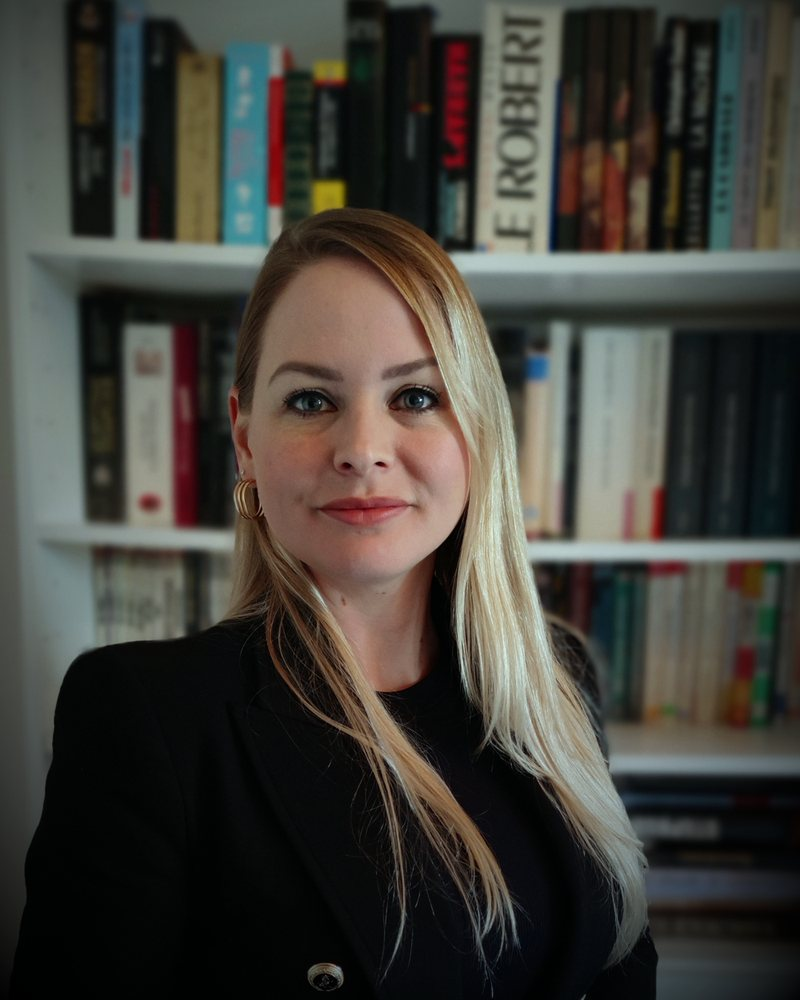
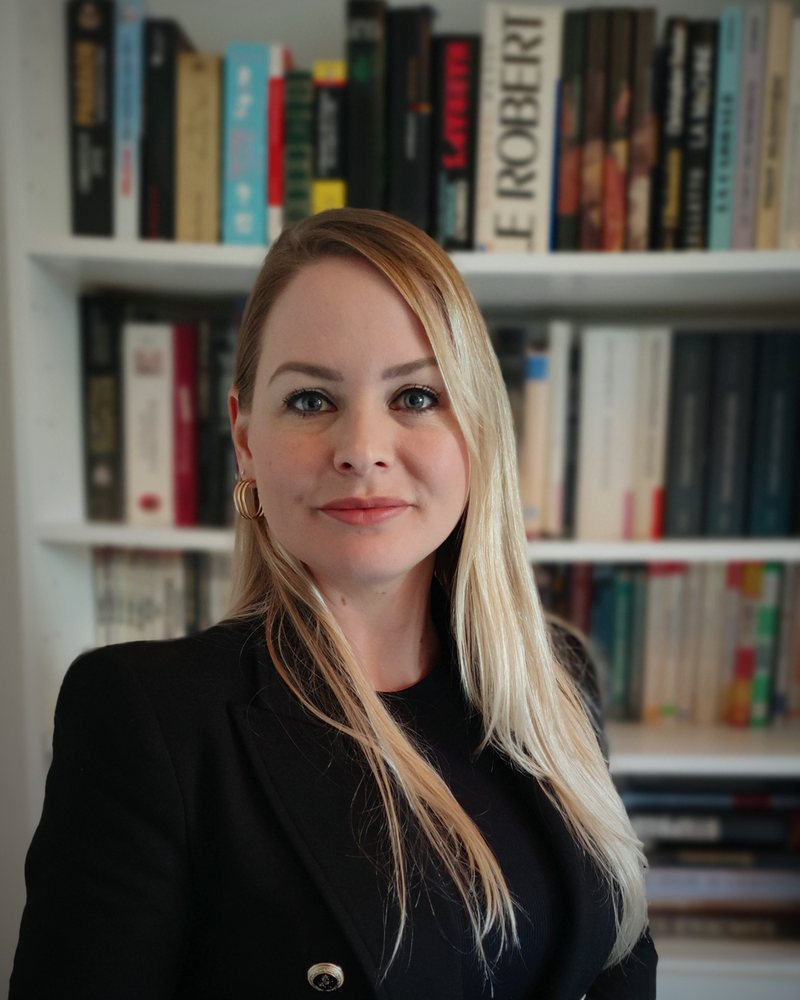
História comercial com fotos de época, fotos dos fundadores ajustadas, rodapé com endereço, WhatsApp e mapa
Claude-Session: https://claude.ai/code/session_01AkVhuXE8EgF92m4Cupjp9G

diff --git a/historia/index.html b/historia/index.html
@@ -4,34 +4,38 @@
 <meta name="theme-color" content="#113325">
 <link rel="preconnect" href="https://fonts.googleapis.com"><link rel="preconnect" href="https://fonts.gstatic.com" crossorigin>
 <link href="https://fonts.googleapis.com/css2?family=Playfair+Display:ital,wght@0,600;0,700;1,600&family=Inter:wght@400;500;600;700&display=swap" rel="stylesheet">
-<link rel="stylesheet" href="/assets/site/site.css?v=4"></head><body data-sol>
+<link rel="stylesheet" href="/assets/site/site.css?v=5"></head><body data-sol>
 <header class="nav"><div class="nv"><ul><li><a class="l" href="/">Início</a></li><li><a class="l on" href="/historia/">História</a></li><li><a class="l" href="/equipe/">Equipe</a></li></ul><a class="logo" href="/" aria-label="Das Stammhaus Pub"><img src="/assets/site/logo-horizontal.png" alt="Das Stammhaus Pub"></a><ul class="r"><li><a class="l" href="/cardapio/">Cardápio</a></li><li><a class="l" href="/fotos/">Fotos</a></li><li><a class="l" href="/reservas/">Reservas</a></li><li><a class="l int" href="/painel/">Gestão · interno</a></li></ul>
 <button class="burger" aria-label="Menu" aria-expanded="false"><span></span><span></span><span></span></button></div><nav class="menu"><a href="/">Início</a><a href="/historia/">História</a><a href="/equipe/">Equipe</a><a href="/cardapio/">Cardápio</a><a href="/fotos/">Fotos</a><a href="/reservas/">Reservas</a><a href="/painel/">Gestão (acesso interno)</a></nav></header>
 
-<section class="pagehero" style="--bg:url('https://images.pexels.com/photos/38949607/pexels-photo-38949607.jpeg?auto=compress&cs=tinysrgb&w=1600')"><div class="wrap"><span class="eb">História</span><h1>Raízes que resistem ao tempo</h1>
-<p class="lead">A história de um casarão, de uma cidade e de gente que gosta de coisa bem feita.</p></div></section>
+<section class="pagehero" style="--bg:url('https://upload.wikimedia.org/wikipedia/commons/d/dd/Contestado_tropa_Ex%C3%A9rcito.jpg')"><div class="wrap"><span class="eb">História</span><h1>Raízes que resistem ao tempo</h1>
+<p class="lead">Da erva-mate e das serrarias do Planalto Norte ao casarão da Getúlio Vargas: uma história de madeira, imigrantes e gente que constrói para durar.</p></div></section>
 <section><div class="wrap" style="max-width:860px">
-<div class="draft rv"><b>Texto em construção.</b> Este é um primeiro resumo, que vamos lapidar com datas, nomes e fatos confirmados sobre o casarão e a região.</div>
 <div class="tl rv">
-<div class="t"><span class="eb">A cidade</span><h3>Canoinhas e a força da madeira</h3><p>Canoinhas, no Planalto Norte de Santa Catarina, tem a história ligada à cultura madeireira e à chegada de imigrantes europeus. É dessa herança que o Das Stammhaus tira a madeira nobre, a marcenaria fina e o respeito pelo que dura.</p></div>
-<div class="t"><span class="eb">O casarão</span><h3>Dois andares de arquitetura preservada</h3><p>O pub ocupa um casarão histórico de dois andares, com jardim e um parreiral de mais de 50 anos. A restauração mantém o caráter da casa e comunica permanência.</p></div>
-<div class="t"><span class="eb">A ideia</span><h3>Um lugar para ficar</h3><p>Percebemos que a cidade tinha poucas opções de lazer com substância para o público maduro, que muitas vezes viaja para outras cidades ou deixa de sair. Quisemos um refúgio onde dá para conversar, ouvir boa música e beber bem, sem pressa.</p></div>
-<div class="t"><span class="eb">A curadoria</span><h3>O que é bom resiste ao tempo</h3><p>Do chopp à acústica, da seleção musical ao menu enxuto: cada detalhe passa por curadoria. Daí o nome, Das Stammhaus, a casa-raiz, o lugar de encontro de quem se reconhece.</p></div>
+<div class="t"><span class="eb">A terra</span><h3>Erva-mate e madeira: a economia que fez Canoinhas</h3><p>Canoinhas fica no Planalto Norte de Santa Catarina, onde a economia nasceu do extrativismo da erva-mate e, depois, da madeira. A força da erva-mate foi tamanha que a cidade ficou conhecida como a Capital Mundial da Erva-mate, e hoje uma grande cuia na praça Lauro Müller lembra essa herança.</p></div>
+<div class="t"><span class="eb">1910</span><h3>A maior serraria da América do Sul</h3><p>Em 1910, a Southern Brazil Lumber and Colonization Company, a famosa Lumber, instalou em Três Barras, vizinha de Canoinhas, uma serraria que chegou a ser apontada como a maior da América do Sul. A empresa também trouxe imigrantes europeus para a região, entre eles poloneses e ucranianos, que ajudaram a formar a identidade local.</p></div>
+<div class="t"><span class="eb">1912 a 1916</span><h3>O Contestado</h3><p>Canoinhas e Três Barras estiveram no cenário da Guerra do Contestado, um dos conflitos mais marcantes da história do sul do Brasil. A serraria da Lumber chegou a ser guarnecida por tropas do Exército durante os ataques, e a vila de Canoinhas foi retratada na imprensa da época.</p>
+<figure><img src="https://upload.wikimedia.org/wikipedia/commons/d/dd/Contestado_tropa_Ex%C3%A9rcito.jpg" alt="Tropa do Exército guarnecendo a serraria em Três Barras" loading="lazy"><figcaption>Tropa do Exército guarnecendo a serraria durante ataque rebelde em Três Barras. Foto: Claro Jansson / Acervo Dorothy Jansson Moretti (Senado Federal), CC BY-SA 4.0.</figcaption></figure>
+<figure><img src="https://upload.wikimedia.org/wikipedia/commons/5/51/FON-FON%21_NO_CONTESTADO%21_-_Villa_de_Canoinhas.jpg" alt="Militares na vila de Canoinhas, 1915" loading="lazy"><figcaption>Militares na vila de Canoinhas, revista Fon-Fon!, 9 de janeiro de 1915. Domínio público.</figcaption></figure></div>
+<div class="t"><span class="eb">Depois da guerra</span><h3>A madeira volta a mover a cidade</h3><p>Terminados os combates, as empresas permaneceram e a economia local foi reativada pela erva-mate e pela madeira. A Lumber operou em Três Barras até 1940, quando foi estatizada.</p>
+<figure><img src="/assets/site/canoinhas-antiga.jpg" alt="Canoinhas em foto de arquivo" loading="lazy"><figcaption>Canoinhas em foto de arquivo.</figcaption></figure></div>
+<div class="t"><span class="eb">O casarão</span><h3>Um casarão de dois andares na Rua Getúlio Vargas</h3><p>É dessa herança que o Das Stammhaus tira a madeira nobre, a marcenaria fina e o respeito pelo que dura. O casarão histórico de dois andares, com jardim e um parreiral de mais de 50 anos, foi restaurado para abrigar o pub e preservar o caráter da casa.</p></div>
+<div class="t"><span class="eb">Hoje</span><h3>Um pub europeu no coração de Canoinhas</h3><p>Canoinhas tinha poucas opções de lazer com substância para o público maduro, que muitas vezes viaja para outras cidades ou deixa de sair. O Das Stammhaus nasce para ser o ponto de encontro: chopp Heineken tirado do jeito certo, música ao vivo e um menu pensado para trazer as melhores especialidades alemãs, com eficiência e qualidade. Daí o nome: Stammhaus, a casa-raiz, o lugar de quem se reconhece.</p></div>
 </div>
-<div class="split rv" style="margin-top:56px"><div class="ph tall" style="background-image:url('/assets/site/casarao-pre-obra.jpg')" role="img" aria-label="O casarão antes da obra"></div><div><span class="eb">Ponto de partida</span><h3>O casarão antes da obra</h3><p>É assim que ele está hoje, antes da restauração: dois andares, janelas de madeira, a fachada com as marcas do tempo. Tudo o que o Das Stammhaus vai ser nasce daqui.</p></div></div>
+<div class="split rv" style="margin-top:56px"><div class="ph tall" style="background-image:url('/assets/site/casarao-pre-obra.jpg')" role="img" aria-label="O casarão há nove meses, antes da obra"></div><div><span class="eb">Ponto de partida</span><h3>O casarão há nove meses</h3><p>Assim ele estava antes da obra. Hoje está todo reformado, e a revelação acontece na inauguração, dia 18/11/2026.</p><a class="btn" href="/reservas/">Reservar minha noite</a></div></div>
 <p class="quote rv" style="margin-top:50px">Honre suas raízes, embriague-se aqui.<small>Nosso brinde</small></p>
 </div></section>
 <section class="alt"><div class="wrap"><div class="center rv"><span class="eb">Os fundadores</span><h2>Quem está por trás da casa</h2></div>
 <div class="fnd rv">
 <div class="card"><img class="pf" src="/assets/site/felipe.jpg" alt="Felipe Schadeck Fiorentin" loading="lazy"><div class="role">Co-fundador</div><h3>Felipe Schadeck Fiorentin</h3><p>Engenheiro agrônomo com carreira em agricultura digital. Traz rigor de gestão, análise de dados e processos para uma casa que quer ser impecável e duradoura.</p></div>
-<div class="card"><img class="pf" src="/assets/site/regina.jpg" alt="Mirian Regina Strack Schadeck" loading="lazy"><div class="role">Co-fundadora</div><h3>Mirian Regina Strack Schadeck</h3><p>Advogada e perita criminal da Polícia Científica. Cuida de gestão financeira e conformidade e da cultura de hospitalidade e do relacionamento com o público.</p></div>
+<div class="card"><img class="pf" src="/assets/site/regina.jpg" alt="Mirian Regina Strack Schadeck" loading="lazy"><div class="role">Co-fundadora</div><h3>Mirian Regina Strack Schadeck</h3><p>Advogada e Agente de Perícia Criminal da Polícia Científica. Cuida de gestão financeira e conformidade e da cultura de hospitalidade e do relacionamento com o público.</p></div>
 </div>
-<p class="mut center rv" style="margin-top:26px">Biografias em construção: vamos contar essa parte com mais calma, e com fotos.</p></div></section>
+</div></section>
 <section class="cta rv"><div class="wrap"><h2>Venha fazer parte dessa história.</h2><div class="row"><a class="btn" href="/reservas/">Reservar minha noite</a></div></div></section>
 
 <footer><div class="wrap"><div class="ft">
-<div><img src="/assets/site/logo-padrao.png" alt="Das Stammhaus Pub"><p class="mut">Pub de estilo europeu em um casarão histórico.<br>Canoinhas · Santa Catarina</p><p style="font-style:italic;font-family:'Playfair Display',serif;color:#d9a62e">O que é bom resiste ao tempo.</p></div>
+<div><img src="/assets/site/logo-padrao.png" alt="Das Stammhaus Pub"><p class="mut">Um pub europeu no coração de Canoinhas - SC</p><p style="font-style:italic;font-family:'Playfair Display',serif;color:#d9a62e">O que é bom resiste ao tempo.</p></div>
 <div><h4>A casa</h4><ul><li><a href="/historia/">História e fundadores</a></li><li><a href="/equipe/">Equipe</a></li><li><a href="/cardapio/">Cardápio</a></li><li><a href="/fotos/">Fotos</a></li></ul></div>
-<div><h4>Visite</h4><ul><li><a href="/reservas/">Reservar minha noite</a></li><li><a href="/painel/">Gestão (acesso interno)</a></li></ul></div>
+<div><h4>Visite</h4><ul><li>Rua Getúlio Vargas, 839<br>Canoinhas · SC</li><li><a href="https://www.google.com/maps/dir/?api=1&destination=Rua+Get%C3%BAlio+Vargas+839+Canoinhas+SC" target="_blank" rel="noopener">Como chegar? →</a></li><li><a href="https://wa.me/5547992505290" target="_blank" rel="noopener">WhatsApp: (47) 99250-5290</a></li><li><a href="/reservas/">Reservar minha noite</a></li><li><a href="/painel/">Gestão (acesso interno)</a></li></ul></div>
 </div><div class="copy"><span>© 2026 Das Stammhaus Pub · Canoinhas, SC</span><span>Imagens ilustrativas de banco de imagens (Pexels) · fotos reais em breve</span></div></div></footer>
 <script src="/assets/site/site.js"></script></body></html>

diff --git a/index.html b/index.html
@@ -4,7 +4,7 @@
 <meta name="theme-color" content="#113325">
 <link rel="preconnect" href="https://fonts.googleapis.com"><link rel="preconnect" href="https://fonts.gstatic.com" crossorigin>
 <link href="https://fonts.googleapis.com/css2?family=Playfair+Display:ital,wght@0,600;0,700;1,600&family=Inter:wght@400;500;600;700&display=swap" rel="stylesheet">
-<link rel="stylesheet" href="/assets/site/site.css?v=4"></head><body>
+<link rel="stylesheet" href="/assets/site/site.css?v=5"></head><body>
 <header class="nav"><div class="nv"><ul><li><a class="l on" href="/">Início</a></li><li><a class="l" href="/historia/">História</a></li><li><a class="l" href="/equipe/">Equipe</a></li></ul><a class="logo" href="/" aria-label="Das Stammhaus Pub"><img src="/assets/site/logo-horizontal.png" alt="Das Stammhaus Pub"></a><ul class="r"><li><a class="l" href="/cardapio/">Cardápio</a></li><li><a class="l" href="/fotos/">Fotos</a></li><li><a class="l" href="/reservas/">Reservas</a></li><li><a class="l int" href="/painel/">Gestão · interno</a></li></ul>
 <button class="burger" aria-label="Menu" aria-expanded="false"><span></span><span></span><span></span></button></div><nav class="menu"><a href="/">Início</a><a href="/historia/">História</a><a href="/equipe/">Equipe</a><a href="/cardapio/">Cardápio</a><a href="/fotos/">Fotos</a><a href="/reservas/">Reservas</a><a href="/painel/">Gestão (acesso interno)</a></nav></header>
 
@@ -25,7 +25,7 @@
 <div class="cards rv">
 <div class="card"><span class="n">01</span><h3>Chopp bem tirado</h3><p>Chopp gelado, no ponto, em parceria exclusiva com a Heineken, e bebidas bem servidas.</p></div>
 <div class="card"><span class="n">02</span><h3>Música de qualidade</h3><p>Som profissional em volume que convida à conversa. Rock, blues, MPB e pop rock, sem gritar para ser ouvido.</p></div>
-<div class="card"><span class="n">03</span><h3>Gastronomia descomplicada</h3><p>Menu enxuto e caprichado, pensado para acompanhar a noite. Os detalhes seguem em segredo até a inauguração.</p></div>
+<div class="card"><span class="n">03</span><h3>Gastronomia descomplicada</h3><p>Menu pensado para trazer as melhores especialidades alemãs, com eficiência e qualidade. Os detalhes seguem em segredo até a inauguração.</p></div>
 <div class="card"><span class="n">04</span><h3>Casarão com história</h3><p>Dois andares de arquitetura preservada, madeira nobre e a herança madeireira da região em cada canto.</p></div>
 </div></div></section>
 
@@ -34,7 +34,7 @@
 <div class="rv"><span class="eb">O casarão</span><h2>Dois andares de herança madeireira</h2>
 <p class="lead">O Das Stammhaus nasce de um casarão, de uma cidade e de gente que gosta de coisa bem feita. A restauração preserva a arquitetura e a força da cultura madeireira e da imigração europeia que formaram Canoinhas.</p>
 <p class="mut">Madeira nobre, marcenaria fina e precisão histórica: sem exageros e sem caricaturas.</p>
-<p class="mut" style="font-size:14px">Na foto, o casarão antes da obra.</p><a class="btn o" href="/historia/">Nossa história</a></div></div></section>
+<p class="mut" style="font-size:14px">Na foto, o casarão há nove meses, antes da obra. Hoje ele está todo reformado, e a revelação acontece na inauguração, dia 18/11/2026.</p><a class="btn o" href="/historia/">Nossa história</a></div></div></section>
 
 <section class="alt"><div class="wrap split rev">
 <div class="ph rv" style="background-image:url('https://images.pexels.com/photos/5984690/pexels-photo-5984690.jpeg?auto=compress&cs=tinysrgb&w=1200')" role="img" aria-label="Parreiral (imagem ilustrativa)"></div>
@@ -73,8 +73,8 @@
 <div class="row"><a class="btn" href="/reservas/">Reservar minha noite</a></div></div></section>
 
 <footer><div class="wrap"><div class="ft">
-<div><img src="/assets/site/logo-padrao.png" alt="Das Stammhaus Pub"><p class="mut">Pub de estilo europeu em um casarão histórico.<br>Canoinhas · Santa Catarina</p><p style="font-style:italic;font-family:'Playfair Display',serif;color:#d9a62e">O que é bom resiste ao tempo.</p></div>
+<div><img src="/assets/site/logo-padrao.png" alt="Das Stammhaus Pub"><p class="mut">Um pub europeu no coração de Canoinhas - SC</p><p style="font-style:italic;font-family:'Playfair Display',serif;color:#d9a62e">O que é bom resiste ao tempo.</p></div>
 <div><h4>A casa</h4><ul><li><a href="/historia/">História e fundadores</a></li><li><a href="/equipe/">Equipe</a></li><li><a href="/cardapio/">Cardápio</a></li><li><a href="/fotos/">Fotos</a></li></ul></div>
-<div><h4>Visite</h4><ul><li><a href="/reservas/">Reservar minha noite</a></li><li><a href="/painel/">Gestão (acesso interno)</a></li></ul></div>
+<div><h4>Visite</h4><ul><li>Rua Getúlio Vargas, 839<br>Canoinhas · SC</li><li><a href="https://www.google.com/maps/dir/?api=1&destination=Rua+Get%C3%BAlio+Vargas+839+Canoinhas+SC" target="_blank" rel="noopener">Como chegar? →</a></li><li><a href="https://wa.me/5547992505290" target="_blank" rel="noopener">WhatsApp: (47) 99250-5290</a></li><li><a href="/reservas/">Reservar minha noite</a></li><li><a href="/painel/">Gestão (acesso interno)</a></li></ul></div>
 </div><div class="copy"><span>© 2026 Das Stammhaus Pub · Canoinhas, SC</span><span>Imagens ilustrativas de banco de imagens (Pexels) · fotos reais em breve</span></div></div></footer>
 <script src="/assets/site/site.js"></script></body></html>

diff --git a/equipe/index.html b/equipe/index.html
@@ -4,19 +4,19 @@
 <meta name="theme-color" content="#113325">
 <link rel="preconnect" href="https://fonts.googleapis.com"><link rel="preconnect" href="https://fonts.gstatic.com" crossorigin>
 <link href="https://fonts.googleapis.com/css2?family=Playfair+Display:ital,wght@0,600;0,700;1,600&family=Inter:wght@400;500;600;700&display=swap" rel="stylesheet">
-<link rel="stylesheet" href="/assets/site/site.css?v=4"></head><body data-sol>
+<link rel="stylesheet" href="/assets/site/site.css?v=5"></head><body data-sol>
 <header class="nav"><div class="nv"><ul><li><a class="l" href="/">Início</a></li><li><a class="l" href="/historia/">História</a></li><li><a class="l on" href="/equipe/">Equipe</a></li></ul><a class="logo" href="/" aria-label="Das Stammhaus Pub"><img src="/assets/site/logo-horizontal.png" alt="Das Stammhaus Pub"></a><ul class="r"><li><a class="l" href="/cardapio/">Cardápio</a></li><li><a class="l" href="/fotos/">Fotos</a></li><li><a class="l" href="/reservas/">Reservas</a></li><li><a class="l int" href="/painel/">Gestão · interno</a></li></ul>
 <button class="burger" aria-label="Menu" aria-expanded="false"><span></span><span></span><span></span></button></div><nav class="menu"><a href="/">Início</a><a href="/historia/">História</a><a href="/equipe/">Equipe</a><a href="/cardapio/">Cardápio</a><a href="/fotos/">Fotos</a><a href="/reservas/">Reservas</a><a href="/painel/">Gestão (acesso interno)</a></nav></header>
 
-<section class="pagehero" style="--bg:url('https://images.pexels.com/photos/34638198/pexels-photo-34638198.jpeg?auto=compress&cs=tinysrgb&w=1600')"><div class="wrap"><span class="eb">Equipe</span><h1>Quem faz a casa acontecer</h1>
+<section class="pagehero" style="--bg:url('https://images.pexels.com/photos/30148777/pexels-photo-30148777.jpeg?auto=compress&cs=tinysrgb&w=1600')"><div class="wrap"><span class="eb">Equipe</span><h1>Quem faz a casa acontecer</h1>
 <p class="lead">Atendimento atento, conversa de verdade e capricho em cada chopp.</p></div></section>
 <section><div class="wrap center"><div class="draft rv" style="max-width:620px;margin:0 auto 10px"><b>Em construção.</b> Vamos apresentar a nossa equipe aqui, em breve.</div>
 <div class="team rv"><div class="m"><i></i>Em breve</div><div class="m"><i></i>Em breve</div><div class="m"><i></i>Em breve</div><div class="m"><i></i>Em breve</div></div>
 <p class="lead rv" style="margin:44px auto 0">Enquanto isso, conheça <a href="/historia/" style="color:#d9a62e">a história da casa e dos fundadores</a>.</p></div></section>
 
 <footer><div class="wrap"><div class="ft">
-<div><img src="/assets/site/logo-padrao.png" alt="Das Stammhaus Pub"><p class="mut">Pub de estilo europeu em um casarão histórico.<br>Canoinhas · Santa Catarina</p><p style="font-style:italic;font-family:'Playfair Display',serif;color:#d9a62e">O que é bom resiste ao tempo.</p></div>
+<div><img src="/assets/site/logo-padrao.png" alt="Das Stammhaus Pub"><p class="mut">Um pub europeu no coração de Canoinhas - SC</p><p style="font-style:italic;font-family:'Playfair Display',serif;color:#d9a62e">O que é bom resiste ao tempo.</p></div>
 <div><h4>A casa</h4><ul><li><a href="/historia/">História e fundadores</a></li><li><a href="/equipe/">Equipe</a></li><li><a href="/cardapio/">Cardápio</a></li><li><a href="/fotos/">Fotos</a></li></ul></div>
-<div><h4>Visite</h4><ul><li><a href="/reservas/">Reservar minha noite</a></li><li><a href="/painel/">Gestão (acesso interno)</a></li></ul></div>
+<div><h4>Visite</h4><ul><li>Rua Getúlio Vargas, 839<br>Canoinhas · SC</li><li><a href="https://www.google.com/maps/dir/?api=1&destination=Rua+Get%C3%BAlio+Vargas+839+Canoinhas+SC" target="_blank" rel="noopener">Como chegar? →</a></li><li><a href="https://wa.me/5547992505290" target="_blank" rel="noopener">WhatsApp: (47) 99250-5290</a></li><li><a href="/reservas/">Reservar minha noite</a></li><li><a href="/painel/">Gestão (acesso interno)</a></li></ul></div>
 </div><div class="copy"><span>© 2026 Das Stammhaus Pub · Canoinhas, SC</span><span>Imagens ilustrativas de banco de imagens (Pexels) · fotos reais em breve</span></div></div></footer>
 <script src="/assets/site/site.js"></script></body></html>

diff --git a/fotos/index.html b/fotos/index.html
@@ -4,14 +4,14 @@
 <meta name="theme-color" content="#113325">
 <link rel="preconnect" href="https://fonts.googleapis.com"><link rel="preconnect" href="https://fonts.gstatic.com" crossorigin>
 <link href="https://fonts.googleapis.com/css2?family=Playfair+Display:ital,wght@0,600;0,700;1,600&family=Inter:wght@400;500;600;700&display=swap" rel="stylesheet">
-<link rel="stylesheet" href="/assets/site/site.css?v=4"></head><body data-sol>
+<link rel="stylesheet" href="/assets/site/site.css?v=5"></head><body data-sol>
 <header class="nav"><div class="nv"><ul><li><a class="l" href="/">Início</a></li><li><a class="l" href="/historia/">História</a></li><li><a class="l" href="/equipe/">Equipe</a></li></ul><a class="logo" href="/" aria-label="Das Stammhaus Pub"><img src="/assets/site/logo-horizontal.png" alt="Das Stammhaus Pub"></a><ul class="r"><li><a class="l" href="/cardapio/">Cardápio</a></li><li><a class="l on" href="/fotos/">Fotos</a></li><li><a class="l" href="/reservas/">Reservas</a></li><li><a class="l int" href="/painel/">Gestão · interno</a></li></ul>
 <button class="burger" aria-label="Menu" aria-expanded="false"><span></span><span></span><span></span></button></div><nav class="menu"><a href="/">Início</a><a href="/historia/">História</a><a href="/equipe/">Equipe</a><a href="/cardapio/">Cardápio</a><a href="/fotos/">Fotos</a><a href="/reservas/">Reservas</a><a href="/painel/">Gestão (acesso interno)</a></nav></header>
 <section class="sus" style="--bg:url('https://images.pexels.com/photos/15937644/pexels-photo-15937644.jpeg?auto=compress&cs=tinysrgb&w=1600')"><div class="bg"></div><div class="in rv"><div class="lock">✦</div>
 <h1 style="font-size:clamp(34px,5vw,56px)">Fotos</h1><p class="lead">As fotos da casa também ficam para depois da inauguração. Estamos preparando as melhores imagens e, por ora, mantemos o suspense 😉</p><div class="row" style="justify-content:center;margin-top:26px"><a class="btn" href="/reservas/">Reservar minha noite</a><a class="btn o" href="/">Voltar ao início</a></div></div></section>
 <footer><div class="wrap"><div class="ft">
-<div><img src="/assets/site/logo-padrao.png" alt="Das Stammhaus Pub"><p class="mut">Pub de estilo europeu em um casarão histórico.<br>Canoinhas · Santa Catarina</p><p style="font-style:italic;font-family:'Playfair Display',serif;color:#d9a62e">O que é bom resiste ao tempo.</p></div>
+<div><img src="/assets/site/logo-padrao.png" alt="Das Stammhaus Pub"><p class="mut">Um pub europeu no coração de Canoinhas - SC</p><p style="font-style:italic;font-family:'Playfair Display',serif;color:#d9a62e">O que é bom resiste ao tempo.</p></div>
 <div><h4>A casa</h4><ul><li><a href="/historia/">História e fundadores</a></li><li><a href="/equipe/">Equipe</a></li><li><a href="/cardapio/">Cardápio</a></li><li><a href="/fotos/">Fotos</a></li></ul></div>
-<div><h4>Visite</h4><ul><li><a href="/reservas/">Reservar minha noite</a></li><li><a href="/painel/">Gestão (acesso interno)</a></li></ul></div>
+<div><h4>Visite</h4><ul><li>Rua Getúlio Vargas, 839<br>Canoinhas · SC</li><li><a href="https://www.google.com/maps/dir/?api=1&destination=Rua+Get%C3%BAlio+Vargas+839+Canoinhas+SC" target="_blank" rel="noopener">Como chegar? →</a></li><li><a href="https://wa.me/5547992505290" target="_blank" rel="noopener">WhatsApp: (47) 99250-5290</a></li><li><a href="/reservas/">Reservar minha noite</a></li><li><a href="/painel/">Gestão (acesso interno)</a></li></ul></div>
 </div><div class="copy"><span>© 2026 Das Stammhaus Pub · Canoinhas, SC</span><span>Imagens ilustrativas de banco de imagens (Pexels) · fotos reais em breve</span></div></div></footer>
 <script src="/assets/site/site.js"></script></body></html>

diff --git a/cardapio/index.html b/cardapio/index.html
@@ -4,14 +4,14 @@
 <meta name="theme-color" content="#113325">
 <link rel="preconnect" href="https://fonts.googleapis.com"><link rel="preconnect" href="https://fonts.gstatic.com" crossorigin>
 <link href="https://fonts.googleapis.com/css2?family=Playfair+Display:ital,wght@0,600;0,700;1,600&family=Inter:wght@400;500;600;700&display=swap" rel="stylesheet">
-<link rel="stylesheet" href="/assets/site/site.css?v=4"></head><body data-sol>
+<link rel="stylesheet" href="/assets/site/site.css?v=5"></head><body data-sol>
 <header class="nav"><div class="nv"><ul><li><a class="l" href="/">Início</a></li><li><a class="l" href="/historia/">História</a></li><li><a class="l" href="/equipe/">Equipe</a></li></ul><a class="logo" href="/" aria-label="Das Stammhaus Pub"><img src="/assets/site/logo-horizontal.png" alt="Das Stammhaus Pub"></a><ul class="r"><li><a class="l on" href="/cardapio/">Cardápio</a></li><li><a class="l" href="/fotos/">Fotos</a></li><li><a class="l" href="/reservas/">Reservas</a></li><li><a class="l int" href="/painel/">Gestão · interno</a></li></ul>
 <button class="burger" aria-label="Menu" aria-expanded="false"><span></span><span></span><span></span></button></div><nav class="menu"><a href="/">Início</a><a href="/historia/">História</a><a href="/equipe/">Equipe</a><a href="/cardapio/">Cardápio</a><a href="/fotos/">Fotos</a><a href="/reservas/">Reservas</a><a href="/painel/">Gestão (acesso interno)</a></nav></header>
 <section class="sus" style="--bg:url('https://images.pexels.com/photos/5530258/pexels-photo-5530258.jpeg?auto=compress&cs=tinysrgb&w=1600')"><div class="bg"></div><div class="in rv"><div class="lock">🍺</div>
 <h1 style="font-size:clamp(34px,5vw,56px)">Cardápio</h1><p class="lead">Vamos compartilhar o cardápio depois da inauguração. Por ora, vamos manter o suspense para surpreender a todos 😉</p><div class="row" style="justify-content:center;margin-top:26px"><a class="btn" href="/reservas/">Reservar minha noite</a><a class="btn o" href="/">Voltar ao início</a></div></div></section>
 <footer><div class="wrap"><div class="ft">
-<div><img src="/assets/site/logo-padrao.png" alt="Das Stammhaus Pub"><p class="mut">Pub de estilo europeu em um casarão histórico.<br>Canoinhas · Santa Catarina</p><p style="font-style:italic;font-family:'Playfair Display',serif;color:#d9a62e">O que é bom resiste ao tempo.</p></div>
+<div><img src="/assets/site/logo-padrao.png" alt="Das Stammhaus Pub"><p class="mut">Um pub europeu no coração de Canoinhas - SC</p><p style="font-style:italic;font-family:'Playfair Display',serif;color:#d9a62e">O que é bom resiste ao tempo.</p></div>
 <div><h4>A casa</h4><ul><li><a href="/historia/">História e fundadores</a></li><li><a href="/equipe/">Equipe</a></li><li><a href="/cardapio/">Cardápio</a></li><li><a href="/fotos/">Fotos</a></li></ul></div>
-<div><h4>Visite</h4><ul><li><a href="/reservas/">Reservar minha noite</a></li><li><a href="/painel/">Gestão (acesso interno)</a></li></ul></div>
+<div><h4>Visite</h4><ul><li>Rua Getúlio Vargas, 839<br>Canoinhas · SC</li><li><a href="https://www.google.com/maps/dir/?api=1&destination=Rua+Get%C3%BAlio+Vargas+839+Canoinhas+SC" target="_blank" rel="noopener">Como chegar? →</a></li><li><a href="https://wa.me/5547992505290" target="_blank" rel="noopener">WhatsApp: (47) 99250-5290</a></li><li><a href="/reservas/">Reservar minha noite</a></li><li><a href="/painel/">Gestão (acesso interno)</a></li></ul></div>
 </div><div class="copy"><span>© 2026 Das Stammhaus Pub · Canoinhas, SC</span><span>Imagens ilustrativas de banco de imagens (Pexels) · fotos reais em breve</span></div></div></footer>
 <script src="/assets/site/site.js"></script></body></html>

diff --git a/assets/site/site.css b/assets/site/site.css
@@ -96,6 +96,7 @@ section{padding:90px 0}
 .team .m{border:1.5px dashed rgba(217,166,46,.5);border-radius:14px;padding:46px 20px;text-align:center;opacity:.8}
 .team .m i{display:block;width:70px;height:70px;border-radius:50%;background:rgba(234,231,218,.08);margin:0 auto 14px}
 .tl{border-left:2px solid rgba(180,126,0,.6);margin:34px 0 0 8px;padding-left:28px}
+.tl figure{margin:16px 0 0}.tl figure img{width:100%;border-radius:10px;display:block;filter:sepia(.45) contrast(1.05);border:1px solid rgba(217,166,46,.35)}.tl figcaption{font-size:12px;color:var(--mut,#9fb3a6);margin-top:6px;line-height:1.5}
 .tl .t{position:relative;margin-bottom:34px}.tl .t:before{content:"";position:absolute;left:-37px;top:7px;width:14px;height:14px;border-radius:50%;background:var(--ouro);border:3px solid var(--escuro)}
 .draft{border:1px dashed rgba(217,166,46,.6);border-radius:10px;padding:14px 18px;font-size:14.5px;background:rgba(180,126,0,.1);margin-bottom:34px}
 .cta{background:linear-gradient(135deg,#0D5B1D,#113325);text-align:center;border-top:1px solid rgba(180,126,0,.5);border-bottom:1px solid rgba(180,126,0,.5)}
